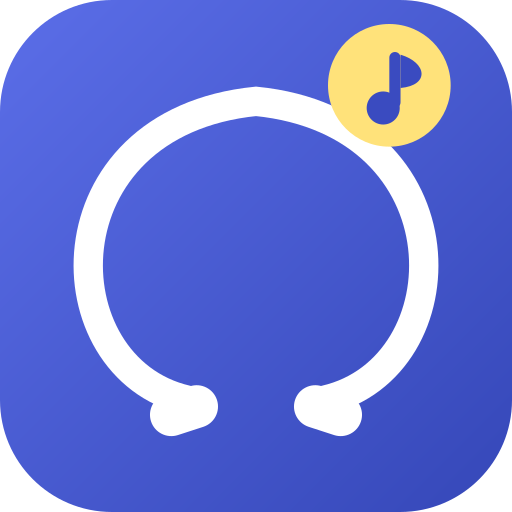
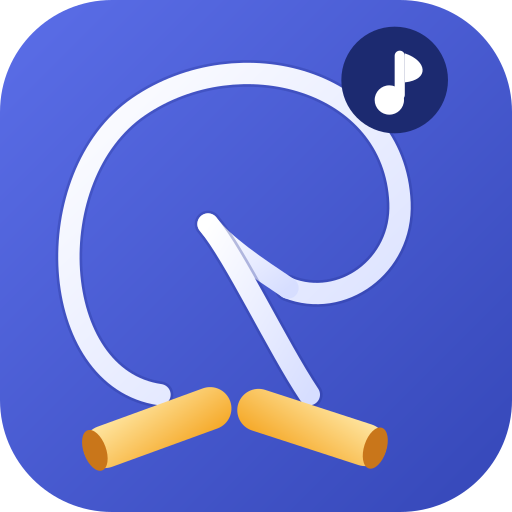
아이콘을 참고 이미지의 루프+교차 로프 형태로 최종 확정
이전 시안들은 줄넘기로 잘 안 읽힌다는 피드백이 계속 있었다. 참고 이미지의
"P자형" 구성(로프가 루프를 그리며 한 번 스스로 교차한 뒤 두 손잡이로
내려오는 모양)을 그대로 재현해 확정했다.

Changed region(s): [[0.0938, 0.0312, 0.9062, 0.9375]]

diff --git a/sw.js b/sw.js
@@ -1,7 +1,7 @@
 // 기본 오프라인 캐싱: 앱 셸(HTML/manifest/아이콘)만 캐시하고,
 // Firebase 등 외부 API 요청은 항상 네트워크로 보내 실시간 동기화를 방해하지 않는다.
 // same-origin 요청은 "네트워크 우선, 실패 시 캐시" 전략으로 최신 버전을 우선한다.
-const CACHE_NAME = "jumprope-score-v5";
+const CACHE_NAME = "jumprope-score-v6";
 const APP_SHELL = [
   "./",
   "./index.html",
